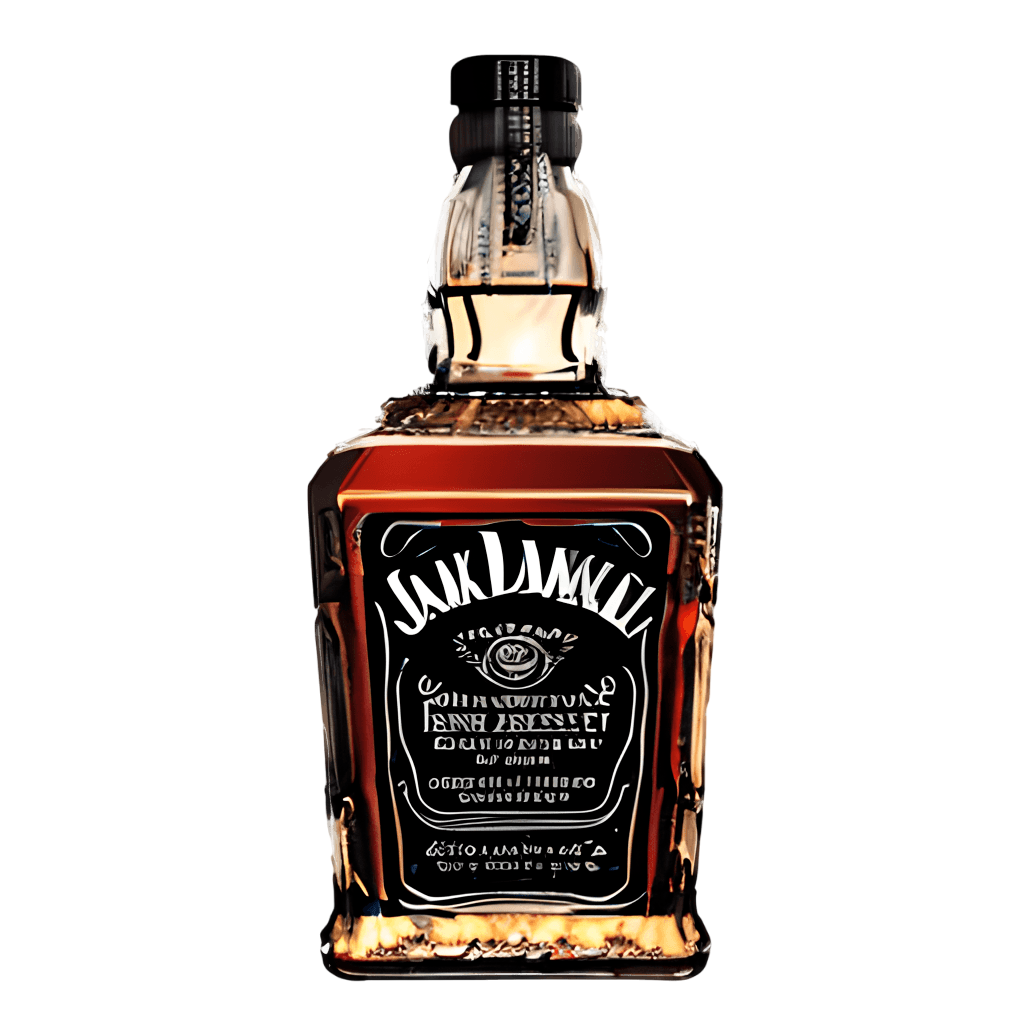
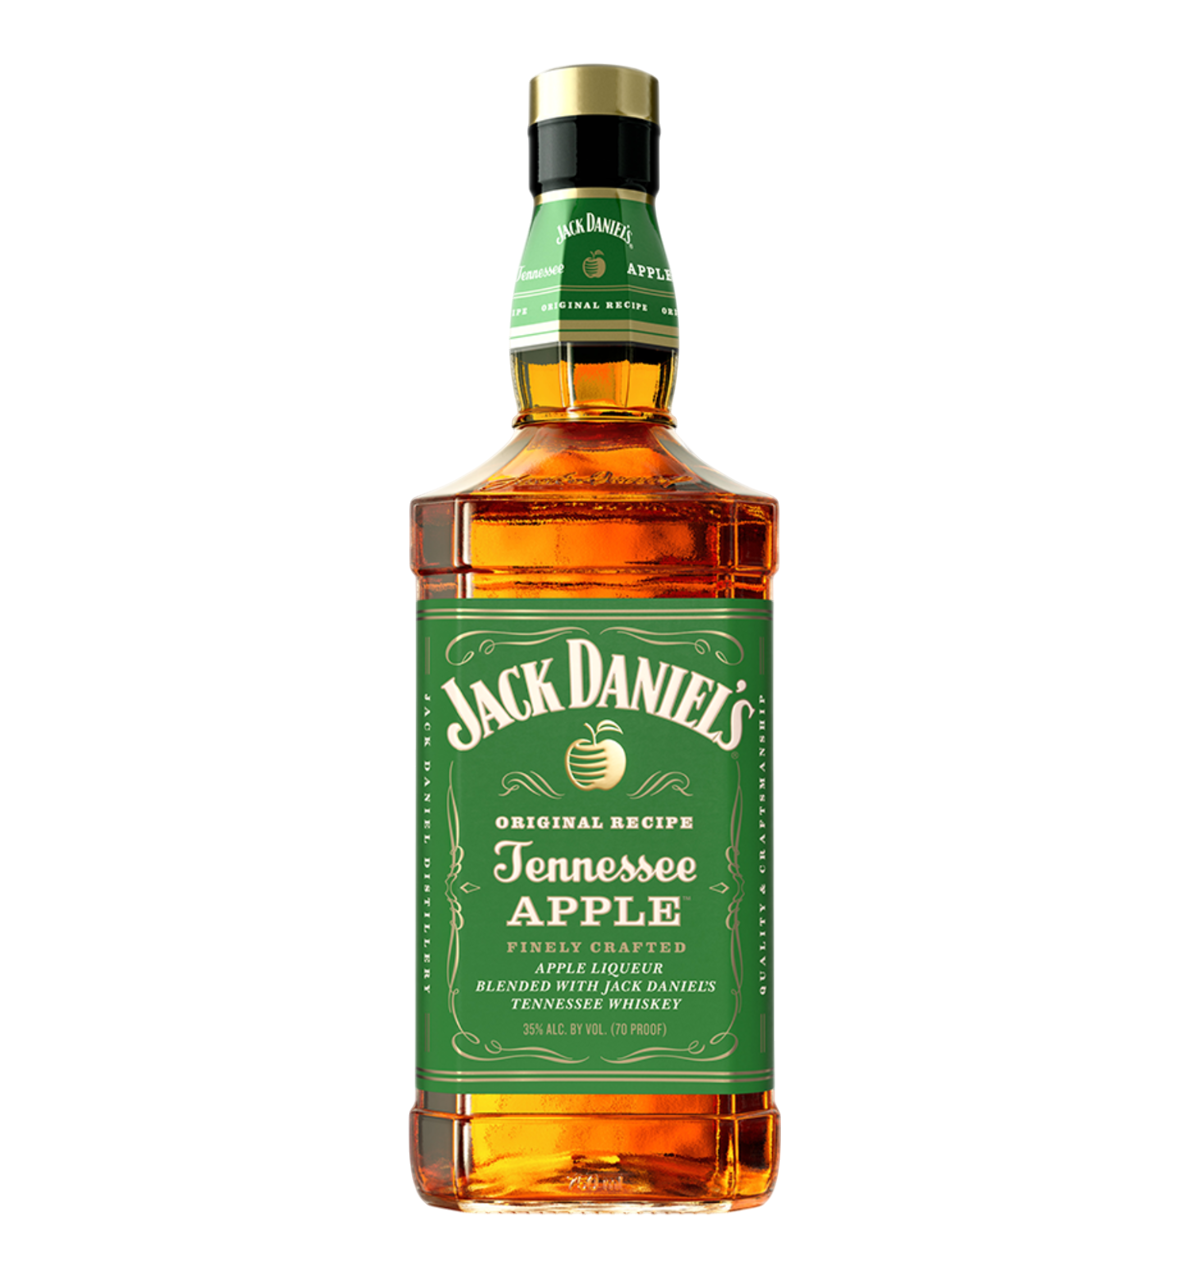
Update about section caraosel

Changed region(s): [[0.2812, 0.0312, 0.7188, 0.9688]]

diff --git a/src/components/About.jsx b/src/components/About.jsx
@@ -31,8 +31,8 @@ const About = () => {
     {
       src: "/images/abt3.png",
       alt: "grid-img-3",
-      title: "Vintage Collection",
-      desc: "Perfect for celebrations",
+      title: "Jack Daniel’s Tennessee Fire",
+      desc: "Whiskey with added spicy cinnamon, providing a warm and bold sensation.",
     },
     {
       src: "/images/abt4.png",
@@ -43,32 +43,32 @@ const About = () => {
     {
       src: "/images/abt6.png",
       alt: "grid-img-6",
-      title: "Heritage Scotch",
-      desc: "Crafted to perfection",
+      title: "Jack Daniel’s Rye Whiskey",
+      desc: "Made with 70% rye, it delivers a spicy, spicy flavor that's distinct from classic whiskey.",
     },
     {
       src: "/images/abt7.png",
       alt: "grid-img-7",
-      title: "Oak Barrel",
-      desc: "Aged for excellence",
+      title: "Jack Daniel’s Eric Church Special Edition",
+      desc: "A limited release from the Single Barrel Select series created specifically to honor country musician Eric Church. This whiskey is hand-selected from barrels in the Jack Daniel's barrelhouse.",
     },
     {
       src: "/images/abt8.png",
       alt: "grid-img-8",
-      title: "Smoky Delight",
-      desc: "Bold and captivating",
+      title: "Jack Daniel’s 150th Anniversary Tennessee Whiskey",
+      desc: "It is a special edition created to celebrate the 150th anniversary of Jack Daniel’s Distillery.",
     },
     {
       src: "/images/abt9.png",
       alt: "grid-img-9",
-      title: "Cask Strength",
-      desc: "Unfiltered and intense",
+      title: "Jack Daniel’s Tennessee Apple",
+      desc: "A blend of whiskey with fresh, sweet, and slightly sour apple flavors, popular for mixed drinks.",
     },
     {
       src: "/images/abt10.png",
       alt: "grid-img-10",
-      title: "Limited Edition",
-      desc: "Exclusive whisky experience",
+      title: "Jack Daniel’s 1907 Brand Tennessee Sour Mash Whiskey",
+      desc: "This whiskey is designed as a lighter alternative to the classic variant, while maintaining the quality and signature process of Jack Daniel's.",
     }
   ];
 
@@ -132,7 +132,7 @@ const About = () => {
             <img
               src={item.src}
               alt={item.alt}
-              className="w-full max-h-94 object-contain rounded-md"
+              className="w-full max-h-100 object-contain rounded-md"
             />
             <h3 className="mt-4 text-lg font-bold text-white">{item.title}</h3>
             <p className="text-sm text-gray-300">{item.desc}</p>
